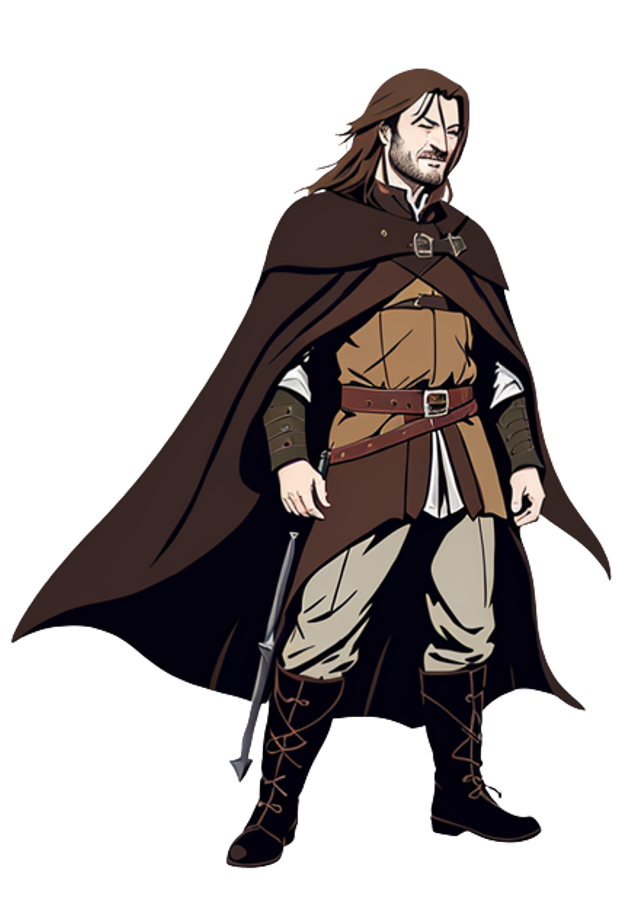
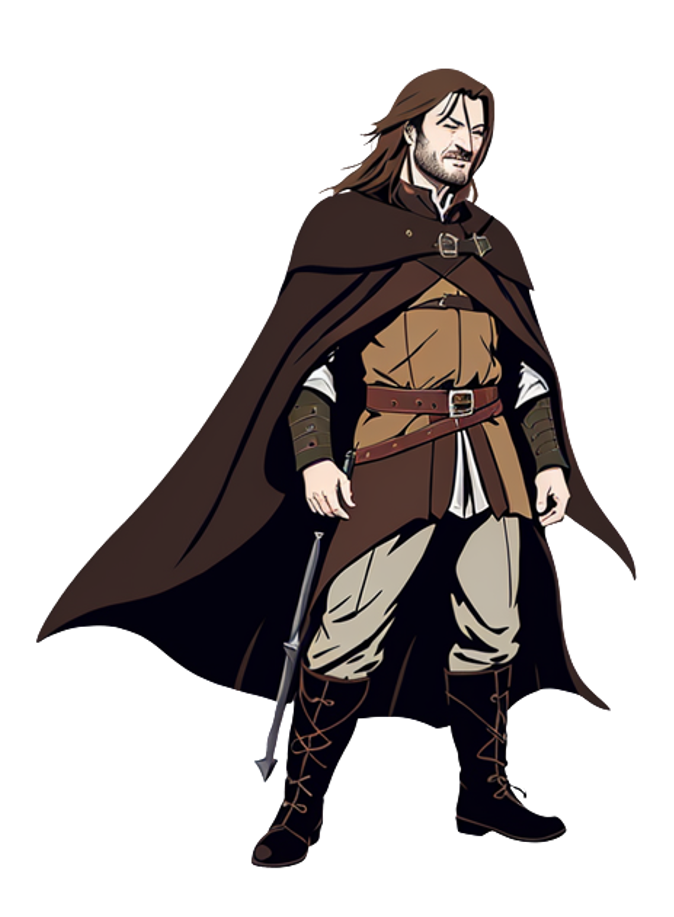
:lipstick: sections characters

diff --git a/index.html b/index.html
@@ -19,47 +19,123 @@
         <section class="location" id="the_shire">
             <img src="imgs/locations/The_Shire.png" alt="the_shire">
             <img src="imgs/overlay.png" id="overlay" alt="overlay">
+            <div class="characters">
+                <!-- <img src="imgs/characters/Aragorn.png" alt=""> -->
+                <img src="imgs/characters/Samwise_Gamgee.png" alt="">
+                <!-- <img src="imgs/characters/Boromir.png" alt=""> -->
+                <img src="imgs/characters/Peregrin_Took.png" alt="">
+                <img src="imgs/characters/Meriadoc_Brandybuck.png" alt="">
+                <!-- <img src="imgs/characters/Gimli.png" alt=""> -->
+                <!-- <img src="imgs/characters/Legolas.png" alt=""> -->
+                <img src="imgs/characters/Frodo_Baggins.png" alt="">
+                <!-- <img src="imgs/characters/Gandalf.png" alt=""> -->
+            </div>
         </section>
         <section class="location" id="rivendell">
             <img src="imgs/locations/Rivendell_1.png" alt="rivendell">
             <img src="imgs/overlay.png" id="overlay" alt="overlay">
+            <div class="characters">
+                <img src="imgs/characters/Aragorn.png" alt="">
+                <img src="imgs/characters/Samwise_Gamgee.png" alt="">
+                <img src="imgs/characters/Boromir.png" alt="">
+                <img src="imgs/characters/Peregrin_Took.png" alt="">
+                <img src="imgs/characters/Meriadoc_Brandybuck.png" alt="">
+                <img src="imgs/characters/Gimli.png" alt="">
+                <img src="imgs/characters/Legolas.png" alt="">
+                <img src="imgs/characters/Frodo_Baggins.png" alt="">
+                <img src="imgs/characters/Gandalf.png" alt="">
+            </div>
         </section>
         <section class="location" id="moria">
             <img src="imgs/locations/Moria.png" alt="moria">
             <img src="imgs/overlay.png" id="overlay" alt="overlay">
+            <div class="characters">
+                <img src="imgs/characters/Aragorn.png" alt="">
+                <img src="imgs/characters/Samwise_Gamgee.png" alt="">
+                <img src="imgs/characters/Boromir.png" alt="">
+                <img src="imgs/characters/Peregrin_Took.png" alt="">
+                <img src="imgs/characters/Meriadoc_Brandybuck.png" alt="">
+                <img src="imgs/characters/Gimli.png" alt="">
+                <img src="imgs/characters/Legolas.png" alt="">
+                <img src="imgs/characters/Frodo_Baggins.png" alt="">
+                <!-- <img src="imgs/characters/Gandalf.png" alt=""> -->
+            </div>
         </section>
         <section class="location" id="lorien">
             <img src="imgs/locations/Lorien.png" alt="lorien">
             <img src="imgs/overlay.png" id="overlay" alt="overlay">
+            <div class="characters">
+                <img src="imgs/characters/Aragorn.png" alt="">
+                <img src="imgs/characters/Samwise_Gamgee.png" alt="">
+                <img src="imgs/characters/Boromir.png" alt="">
+                <img src="imgs/characters/Peregrin_Took.png" alt="">
+                <img src="imgs/characters/Meriadoc_Brandybuck.png" alt="">
+                <img src="imgs/characters/Gimli.png" alt="">
+                <img src="imgs/characters/Legolas.png" alt="">
+                <img src="imgs/characters/Frodo_Baggins.png" alt="">
+                <!-- <img src="imgs/characters/Gandalf.png" alt=""> -->
+            </div>
         </section>
         <section class="location" id="rauros_fall">
             <img src="imgs/locations/Rauros_Falls.png" alt="rauros_fall">
             <img src="imgs/overlay.png" id="overlay" alt="overlay">
+            <div class="characters">
+                <img src="imgs/characters/Aragorn.png" alt="">
+                <img src="imgs/characters/Samwise_Gamgee.png" alt="">
+                <!-- <img src="imgs/characters/Boromir.png" alt=""> -->
+                <img src="imgs/characters/Peregrin_Took.png" alt="">
+                <img src="imgs/characters/Meriadoc_Brandybuck.png" alt="">
+                <img src="imgs/characters/Gimli.png" alt="">
+                <img src="imgs/characters/Legolas.png" alt="">
+                <img src="imgs/characters/Frodo_Baggins.png" alt="">
+                <!-- <img src="imgs/characters/Gandalf.png" alt=""> -->
+            </div>
         </section>
         <section class="location" id="minas_morgul">
             <img src="imgs/locations/Minas_Morgul.png" alt="minas_morgul">
             <img src="imgs/overlay.png" id="overlay" alt="overlay">
+            <div class="characters">
+                <!-- <img src="imgs/characters/Aragorn.png" alt=""> -->
+                <img src="imgs/characters/Samwise_Gamgee.png" alt="">
+                <!-- <img src="imgs/characters/Boromir.png" alt=""> -->
+                <!-- <img src="imgs/characters/Peregrin_Took.png" alt=""> -->
+                <!-- <img src="imgs/characters/Meriadoc_Brandybuck.png" alt=""> -->
+                <!-- <img src="imgs/characters/Gimli.png" alt=""> -->
+                <!-- <img src="imgs/characters/Legolas.png" alt=""> -->
+                <img src="imgs/characters/Frodo_Baggins.png" alt="">
+                <!-- <img src="imgs/characters/Gandalf.png" alt=""> -->
+            </div>
         </section>
         <section class="location" id="shelob_s_lair">
             <img src="imgs/locations/Shelob_s_lair_2.png" alt="shelob_s_lair">
             <img src="imgs/overlay.png" id="overlay" alt="overlay">
+            <div class="characters">
+                <!-- <img src="imgs/characters/Aragorn.png" alt=""> -->
+                <!-- <img src="imgs/characters/Samwise_Gamgee.png" alt=""> -->
+                <!-- <img src="imgs/characters/Boromir.png" alt=""> -->
+                <!-- <img src="imgs/characters/Peregrin_Took.png" alt=""> -->
+                <!-- <img src="imgs/characters/Meriadoc_Brandybuck.png" alt=""> -->
+                <!-- <img src="imgs/characters/Gimli.png" alt=""> -->
+                <!-- <img src="imgs/characters/Legolas.png" alt=""> -->
+                <img src="imgs/characters/Frodo_Baggins.png" alt="">
+                <!-- <img src="imgs/characters/Gandalf.png" alt=""> -->
+            </div>
         </section>
         <section class="location" id="mordor">
             <img src="imgs/locations/Mordor_3.png" alt="mordor">
             <img src="imgs/overlay.png" id="overlay" alt="overlay">
+            <div class="characters">
+                <!-- <img src="imgs/characters/Aragorn.png" alt=""> -->
+                <img src="imgs/characters/Samwise_Gamgee.png" alt="">
+                <!-- <img src="imgs/characters/Boromir.png" alt=""> -->
+                <!-- <img src="imgs/characters/Peregrin_Took.png" alt=""> -->
+                <!-- <img src="imgs/characters/Meriadoc_Brandybuck.png" alt=""> -->
+                <!-- <img src="imgs/characters/Gimli.png" alt=""> -->
+                <!-- <img src="imgs/characters/Legolas.png" alt=""> -->
+                <img src="imgs/characters/Frodo_Baggins.png" alt="">
+                <!-- <img src="imgs/characters/Gandalf.png" alt=""> -->
+            </div>
         </section>
-
-        <div class="characters">
-            <img src="imgs/characters/Aragorn.png" alt="">
-            <img src="imgs/characters/Samwise_Gamgee.png" alt="">
-            <img src="imgs/characters/Boromir.png" alt="">
-            <img src="imgs/characters/Peregrin_Took.png" alt="">
-            <img src="imgs/characters/Meriadoc_Brandybuck.png" alt="">
-            <img src="imgs/characters/Gimli.png" alt="">
-            <img src="imgs/characters/Legolas.png" alt="">
-            <img src="imgs/characters/Frodo_Baggins.png" alt="">
-            <img src="imgs/characters/Gandalf.png" alt="">
-        </div>
     </main>
     <script src="https://cdnjs.cloudflare.com/ajax/libs/gsap/3.11.5/gsap.min.js"></script>
     <script src="https://cdnjs.cloudflare.com/ajax/libs/gsap/3.11.5/ScrollTrigger.min.js"></script>

diff --git a/style/style.scss b/style/style.scss
@@ -31,7 +31,7 @@
     position: relative;
     display: flex;
     justify-content: center;
-    align-items: center;
+    align-items: end;
 
     img {
         position: absolute;
@@ -53,13 +53,18 @@
 }
 
 .characters {
-    height: 40vh;
+    position: absolute;
+    width: 100%;
     display: flex;
     justify-content: center;
     align-items: center;
-    z-index: 1;
+    align-content: center;
 
     img {
+        position: relative;
+        max-height: 300px;
         height: 100%;
+        width: 100%;
+        object-fit: contain;
     }
 }

diff --git a/style/build.css b/style/build.css
@@ -30,7 +30,7 @@
   position: relative;
   display: flex;
   justify-content: center;
-  align-items: center;
+  align-items: end;
 }
 .location img {
   position: absolute;
@@ -50,14 +50,19 @@
 }
 
 .characters {
-  height: 40vh;
+  position: absolute;
+  width: 100%;
   display: flex;
   justify-content: center;
   align-items: center;
-  z-index: 1;
+  align-content: center;
 }
 .characters img {
+  position: relative;
+  max-height: 300px;
   height: 100%;
+  width: 100%;
+  object-fit: contain;
 }
 
 /*# sourceMappingURL=build.css.map */
